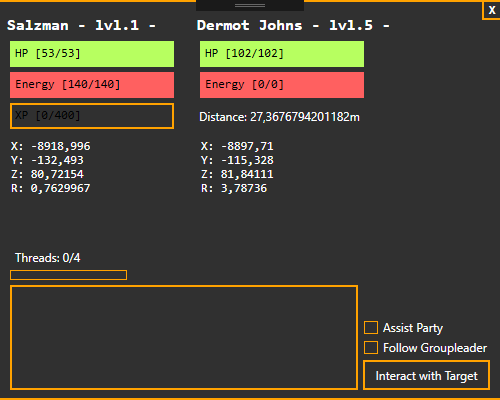
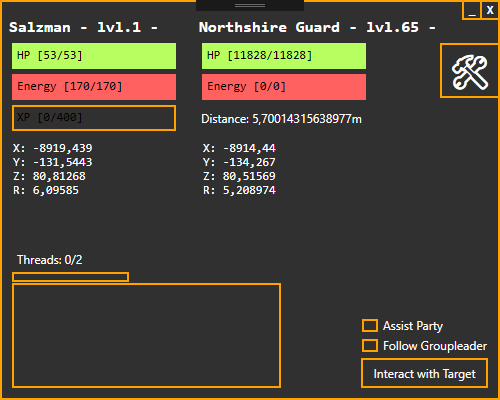
Settings added, small tweaks here and there

Changed region(s): [[0.0, 0.0, 1.0, 1.0], [0.39, 0.03, 0.84, 0.51], [0.9, 0.0, 0.93, 0.03]]

diff --git a/AmeisenBotGUI/mainscreenForm.xaml b/AmeisenBotGUI/mainscreenForm.xaml
@@ -5,9 +5,8 @@
         xmlns:mc="http://schemas.openxmlformats.org/markup-compatibility/2006"
         xmlns:local="clr-namespace:AmeisenBotGUI"
         mc:Ignorable="d"
-        Title="AmeisenBot - " Height="400" Width="500" Loaded="mainscreen_Loaded" Background="#FF303030" WindowStyle="None" ResizeMode="NoResize" MouseDown="mainscreen_MouseDown" Icon="Icon.ico">
+        Title="AmeisenBot - " Height="400" Width="500" Loaded="mainscreen_Loaded" Background="#FF303030" WindowStyle="None" ResizeMode="NoResize" MouseDown="mainscreen_MouseDown" Icon="Icon.ico" BorderBrush="#FFFFA200" BorderThickness="2">
     <Grid>
-        <Rectangle Stroke="#FFFFA200" StrokeThickness="2" Margin="-2,0"/>
         <ProgressBar x:Name="progressBarHPTarget" HorizontalAlignment="Left" Height="26" Margin="200,41,0,0" VerticalAlignment="Top" Width="164" Foreground="#FFB7FF60" FontFamily="Consolas" BorderBrush="#FFFFA200" Background="{x:Null}" BorderThickness="2"/>
         <ProgressBar x:Name="progressBarEnergyTarget" HorizontalAlignment="Left" Height="26" Margin="200,72,0,0" VerticalAlignment="Top" Width="164" Foreground="#FFFF6060" Background="{x:Null}" FontFamily="Consolas" BorderBrush="#FFFFA200" BorderThickness="2"/>
         <ProgressBar x:Name="progressBarHP" HorizontalAlignment="Left" Height="26" Margin="10,41,0,0" VerticalAlignment="Top" Width="164" Foreground="#FFB7FF60" FontFamily="Consolas" Background="{x:Null}" BorderBrush="#FFFFA200" BorderThickness="2"/>
@@ -25,12 +24,14 @@
         <Label x:Name="labelDebugInfo" Content="- DebugInfo -" HorizontalAlignment="Left" Margin="10,235,0,0" VerticalAlignment="Top" FontFamily="Consolas" Foreground="White" Visibility="Hidden"/>
         <Label x:Name="labelDebugInfoTarget" Content="- DebugInfo -" HorizontalAlignment="Left" Margin="200,235,0,0" VerticalAlignment="Top" FontFamily="Consolas" Foreground="White" Visibility="Hidden"/>
         <Button x:Name="buttonMoveToTarget" Content="Interact with Target" Margin="0,0,10,10" Click="buttonMoveToTarget_Click" Height="30" VerticalAlignment="Bottom" HorizontalAlignment="Right" Width="127" BorderThickness="2" BorderBrush="#FFFFA200" Background="{x:Null}" Foreground="White"/>
-        <Button x:Name="buttonExit" Content="X" Margin="0,0,-2,0" VerticalAlignment="Top" FontFamily="Consolas" Click="Button_Click" FontWeight="Bold" Background="{x:Null}" BorderBrush="#FFFFA200" Foreground="White" BorderThickness="2" HorizontalAlignment="Right" Width="20"/>
+        <Button x:Name="buttonExit" Content="X" Margin="0,-2,-2,0" VerticalAlignment="Top" FontFamily="Consolas" Click="Button_Click" FontWeight="Bold" Background="{x:Null}" BorderBrush="#FFFFA200" Foreground="White" BorderThickness="2" HorizontalAlignment="Right" Width="20"/>
         <Label x:Name="labelDistance" Content="Distance:" HorizontalAlignment="Left" Margin="194,103,0,0" VerticalAlignment="Top" Foreground="White" Background="{x:Null}"/>
-        <CheckBox x:Name="checkBoxFollowGroupLeader" Content="Follow Groupleader" Margin="0,0,10,45" Background="{x:Null}" BorderBrush="#FFFFA200" Foreground="White" HorizontalAlignment="Right" Width="127" Height="15" VerticalAlignment="Bottom"/>
-        <CheckBox x:Name="checkBoxAssistParty" Content="Assist Party" Margin="0,0,10,65" BorderBrush="#FFFFA200" Background="{x:Null}" Foreground="White" Height="15" VerticalAlignment="Bottom" HorizontalAlignment="Right" Width="127"/>
-        <ListBox x:Name="listboxCurrentQueue" Margin="10,0,0,10" Background="{x:Null}" BorderBrush="#FFFFA200" Foreground="White" BorderThickness="2" HorizontalAlignment="Left" Width="348" Height="105" VerticalAlignment="Bottom"/>
+        <CheckBox x:Name="checkBoxFollowGroupLeader" Content="Follow Groupleader" Margin="0,0,10,45" Background="{x:Null}" BorderBrush="#FFFFA200" Foreground="White" HorizontalAlignment="Right" Width="127" Height="15" VerticalAlignment="Bottom" BorderThickness="2"/>
+        <CheckBox x:Name="checkBoxAssistParty" Content="Assist Party" Margin="0,0,10,65" BorderBrush="#FFFFA200" Background="{x:Null}" Foreground="White" Height="15" VerticalAlignment="Bottom" HorizontalAlignment="Right" Width="127" BorderThickness="2"/>
+        <ListBox x:Name="listboxCurrentQueue" Margin="10,0,0,10" Background="{x:Null}" BorderBrush="#FFFFA200" Foreground="White" BorderThickness="2" HorizontalAlignment="Left" Width="269" Height="105" VerticalAlignment="Bottom"/>
         <Label x:Name="labelThreadsActive" Content="Threads: 0/0" HorizontalAlignment="Left" Margin="10,244,0,0" VerticalAlignment="Top" Foreground="White" Background="{x:Null}"/>
-        <ProgressBar x:Name="progressBarBusyAIThreads" HorizontalAlignment="Left" Height="10" Margin="10,270,0,0" VerticalAlignment="Top" Width="117" BorderBrush="#FFFFA200" Background="{x:Null}" Foreground="#FFFF3A3A"/>
+        <ProgressBar x:Name="progressBarBusyAIThreads" HorizontalAlignment="Left" Height="10" Margin="10,270,0,0" VerticalAlignment="Top" Width="117" BorderBrush="#FFFFA200" Background="{x:Null}" Foreground="#FFFF3A3A" BorderThickness="2"/>
+        <Button x:Name="buttonSettings" Content="🛠" HorizontalAlignment="Left" Margin="438,41,-2,0" VerticalAlignment="Top" Width="60" Height="55" Click="buttonSettings_Click" BorderBrush="#FFFFA200" Background="{x:Null}" Foreground="White" FontSize="32" BorderThickness="2"/>
+        <Button x:Name="buttonMinimize" Content="_" Margin="0,-2,16,0" VerticalAlignment="Top" FontFamily="Consolas" FontWeight="Bold" Background="{x:Null}" BorderBrush="#FFFFA200" Foreground="White" BorderThickness="2" HorizontalAlignment="Right" Width="20"/>
     </Grid>
 </Window>

diff --git a/AmeisenBotGUI/SettingsWindow.xaml b/AmeisenBotGUI/SettingsWindow.xaml
@@ -1,0 +1,37 @@
+<Window x:Class="AmeisenBotGUI.SettingsWindow"
+        xmlns="http://schemas.microsoft.com/winfx/2006/xaml/presentation"
+        xmlns:x="http://schemas.microsoft.com/winfx/2006/xaml"
+        xmlns:d="http://schemas.microsoft.com/expression/blend/2008"
+        xmlns:mc="http://schemas.openxmlformats.org/markup-compatibility/2006"
+        xmlns:local="clr-namespace:AmeisenBotGUI"
+        mc:Ignorable="d"
+        Title="Settings" Height="445" Width="600" BorderBrush="#FFFFA200" Background="#FF303030" BorderThickness="2" WindowStyle="None" MouseDown="Window_MouseDown" ScrollViewer.VerticalScrollBarVisibility="Disabled" ResizeMode="NoResize" Loaded="Window_Loaded" Closing="Window_Closing">
+    <Grid>
+        <Button x:Name="buttonExit" Content="X" FontFamily="Consolas" Click="ButtonExit_Click" FontWeight="Bold" Background="{x:Null}" BorderBrush="#FFFFA200" Foreground="White" BorderThickness="2" Margin="0,-2,-2,0" Height="20" VerticalAlignment="Top" HorizontalAlignment="Right" Width="20"/>
+        <Button x:Name="buttonMinimize" Content="_" Margin="0,-2,16,0" FontFamily="Consolas" FontWeight="Bold" Background="{x:Null}" BorderBrush="#FFFFA200" Foreground="White" BorderThickness="2" HorizontalAlignment="Right" Width="20" Height="20" VerticalAlignment="Top" Click="buttonMinimize_Click"/>
+        <RadioButton x:Name="radiobuttonRefreshSpeedLowest" Content="Lowest" HorizontalAlignment="Left" Margin="10,97,0,0" VerticalAlignment="Top" Foreground="White" BorderBrush="Red" BorderThickness="4,0,0,0" GroupName="drr"/>
+        <Label x:Name="labelName" Content="Settings" HorizontalAlignment="Left" VerticalAlignment="Top" FontWeight="Bold" FontFamily="Consolas" FontSize="24" Foreground="White" BorderBrush="White" BorderThickness="0,0,0,2"/>
+        <Label Content="Data refresh rate" HorizontalAlignment="Left" Margin="0,60,0,0" VerticalAlignment="Top" Foreground="White" BorderBrush="White" BorderThickness="0,0,0,1" Cursor="None" FontSize="16"/>
+        <RadioButton x:Name="radiobuttonRefreshSpeedLow" Content="Low" HorizontalAlignment="Left" Margin="10,117,0,0" VerticalAlignment="Top" Foreground="White" BorderThickness="4,0,0,0" BorderBrush="#FFFFA000" GroupName="drr"/>
+        <RadioButton x:Name="radiobuttonRefreshSpeedMedium" Content="Medium" HorizontalAlignment="Left" Margin="10,137,0,0" VerticalAlignment="Top" Foreground="White" BorderBrush="Yellow" BorderThickness="4,0,0,0" GroupName="drr"/>
+        <RadioButton x:Name="radiobuttonRefreshSpeedHigh" Content="High" HorizontalAlignment="Left" Margin="10,157,0,0" VerticalAlignment="Top" Foreground="White" BorderBrush="#FFA0FF00" BorderThickness="4,0,0,0" GroupName="drr"/>
+        <RadioButton x:Name="radiobuttonRefreshSpeedHighest" Content="Highest" HorizontalAlignment="Left" Margin="10,177,0,0" VerticalAlignment="Top" Foreground="White" BorderBrush="Magenta" BorderThickness="4,0,0,0" GroupName="drr"/>
+        <Label Content="Intelligence (Threads)" HorizontalAlignment="Left" Margin="0,210,0,0" VerticalAlignment="Top" Foreground="White" BorderBrush="White" BorderThickness="0,0,0,1" Cursor="None" FontSize="16"/>
+        <RadioButton x:Name="radiobuttonIntLowest" Content="Dumb AF" HorizontalAlignment="Left" Margin="10,247,0,0" VerticalAlignment="Top" Foreground="White" BorderBrush="Red" BorderThickness="4,0,0,0" GroupName="int"/>
+        <RadioButton x:Name="radiobuttonIntLow" Content="A bit" HorizontalAlignment="Left" Margin="10,267,0,0" VerticalAlignment="Top" Foreground="White" BorderThickness="4,0,0,0" BorderBrush="#FFFFA000" GroupName="int"/>
+        <RadioButton x:Name="radiobuttonIntMedium" Content="Decent" HorizontalAlignment="Left" Margin="10,287,0,0" VerticalAlignment="Top" Foreground="White" BorderBrush="Yellow" BorderThickness="4,0,0,0" GroupName="int"/>
+        <RadioButton x:Name="radiobuttonIntHigh" Content="High" HorizontalAlignment="Left" Margin="10,307,0,0" VerticalAlignment="Top" Foreground="White" BorderBrush="#FFA0FF00" BorderThickness="4,0,0,0" GroupName="int"/>
+        <RadioButton x:Name="radiobuttonIntHighest" Content="Legend" HorizontalAlignment="Left" Margin="10,327,0,0" VerticalAlignment="Top" Foreground="White" BorderBrush="Magenta" BorderThickness="4,0,0,0" GroupName="int"/>
+        <Label Content="max. 1" HorizontalAlignment="Left" Margin="117,241,0,0" VerticalAlignment="Top" Foreground="White"/>
+        <Label Content="max. 2" HorizontalAlignment="Left" Margin="117,261,0,0" VerticalAlignment="Top" Foreground="White"/>
+        <Label Content="max. 3" HorizontalAlignment="Left" Margin="117,281,0,0" VerticalAlignment="Top" Foreground="White"/>
+        <Label Content="max. 4" HorizontalAlignment="Left" Margin="117,301,0,0" VerticalAlignment="Top" Foreground="White"/>
+        <Label Content="max. 8" HorizontalAlignment="Left" Margin="117,321,0,0" VerticalAlignment="Top" Foreground="White"/>
+        <Label Content="1000ms" HorizontalAlignment="Left" Margin="84,91,0,0" VerticalAlignment="Top" Foreground="White"/>
+        <Label Content="500ms" HorizontalAlignment="Left" Margin="84,111,0,0" VerticalAlignment="Top" Foreground="White"/>
+        <Label Content="250ms" HorizontalAlignment="Left" Margin="84,131,0,0" VerticalAlignment="Top" Foreground="White"/>
+        <Label Content="100ms" HorizontalAlignment="Left" Margin="84,151,0,0" VerticalAlignment="Top" Foreground="White"/>
+        <Label Content="0ms" HorizontalAlignment="Left" Margin="84,171,0,0" VerticalAlignment="Top" Foreground="White"/>
+
+    </Grid>
+</Window>

diff --git a/AmeisenBotGUI/SettingsWindow.xaml.cs b/AmeisenBotGUI/SettingsWindow.xaml.cs
@@ -1,0 +1,133 @@
+using AmeisenCore;
+using System;
+using System.Collections.Generic;
+using System.Linq;
+using System.Text;
+using System.Threading.Tasks;
+using System.Windows;
+using System.Windows.Controls;
+using System.Windows.Data;
+using System.Windows.Documents;
+using System.Windows.Input;
+using System.Windows.Media;
+using System.Windows.Media.Imaging;
+using System.Windows.Shapes;
+
+namespace AmeisenBotGUI
+{
+    /// <summary>
+    /// Interaktionslogik für SettingsWindow.xaml
+    /// </summary>
+    public partial class SettingsWindow : Window
+    {
+        public SettingsWindow()
+        {
+            InitializeComponent();
+        }
+
+        private void Window_MouseDown(object sender, MouseButtonEventArgs e)
+        {
+            DragMove();
+        }
+
+        private void ButtonExit_Click(object sender, RoutedEventArgs e)
+        {
+            Close();
+        }
+
+        private void buttonMinimize_Click(object sender, RoutedEventArgs e)
+        {
+            WindowState = WindowState.Minimized;
+        }
+
+        private void Window_Loaded(object sender, RoutedEventArgs e)
+        {
+            switch (AmeisenSettings.GetInstance().settings.dataRefreshRate)
+            {
+                case 1000:
+                    radiobuttonRefreshSpeedLowest.IsChecked = true;
+                    break;
+
+                case 500:
+                    radiobuttonRefreshSpeedLow.IsChecked = true;
+                    break;
+
+                case 250:
+                    radiobuttonRefreshSpeedMedium.IsChecked = true;
+                    break;
+
+                case 100:
+                    radiobuttonRefreshSpeedHigh.IsChecked = true;
+                    break;
+
+                case 0:
+                    radiobuttonRefreshSpeedHighest.IsChecked = true;
+                    break;
+
+                default:
+                    break;
+            }
+
+            switch (AmeisenSettings.GetInstance().settings.botMaxThreads)
+            {
+                case 1:
+                    radiobuttonIntLowest.IsChecked = true;
+                    break;
+
+                case 2:
+                    radiobuttonIntLow.IsChecked = true;
+                    break;
+
+                case 3:
+                    radiobuttonIntMedium.IsChecked = true;
+                    break;
+
+                case 4:
+                    radiobuttonIntHigh.IsChecked = true;
+                    break;
+
+                case 8:
+                    radiobuttonIntHighest.IsChecked = true;
+                    break;
+
+                default:
+                    break;
+            }
+        }
+
+        private void Window_Closing(object sender, System.ComponentModel.CancelEventArgs e)
+        {
+            if ((bool)radiobuttonRefreshSpeedLowest.IsChecked)
+                AmeisenSettings.GetInstance().settings.dataRefreshRate = 1000;
+            else if ((bool)radiobuttonRefreshSpeedLow.IsChecked)
+                AmeisenSettings.GetInstance().settings.dataRefreshRate = 500;
+            else if ((bool)radiobuttonRefreshSpeedMedium.IsChecked)
+                AmeisenSettings.GetInstance().settings.dataRefreshRate = 250;
+            else if ((bool)radiobuttonRefreshSpeedHigh.IsChecked)
+                AmeisenSettings.GetInstance().settings.dataRefreshRate = 100;
+            else if ((bool)radiobuttonRefreshSpeedHighest.IsChecked)
+                AmeisenSettings.GetInstance().settings.dataRefreshRate = 0;
+            else
+            {
+                //something is wrong...
+            }
+
+            if ((bool)radiobuttonIntLowest.IsChecked)
+                AmeisenSettings.GetInstance().settings.botMaxThreads = 1;
+            else if ((bool)radiobuttonIntLow.IsChecked)
+                AmeisenSettings.GetInstance().settings.botMaxThreads = 2;
+            else if ((bool)radiobuttonIntMedium.IsChecked)
+                AmeisenSettings.GetInstance().settings.botMaxThreads = 3;
+            else if ((bool)radiobuttonIntHigh.IsChecked)
+                AmeisenSettings.GetInstance().settings.botMaxThreads = 4;
+            else if ((bool)radiobuttonIntHighest.IsChecked)
+                AmeisenSettings.GetInstance().settings.botMaxThreads = 8;
+            else
+            {
+                //something is wrong...
+            }
+
+            AmeisenSettings.GetInstance().SaveToFile(AmeisenSettings.GetInstance().loadedconfName);
+        }
+    }
+}

diff --git a/AmeisenCore/AmeisenSettings.cs b/AmeisenCore/AmeisenSettings.cs
@@ -1,0 +1,54 @@
+using System;
+using System.IO;
+
+namespace AmeisenCore
+{
+    public class AmeisenSettings
+    {
+        private static string configPath = AppDomain.CurrentDomain.BaseDirectory + "/config/";
+        public Settings settings;
+        private static AmeisenSettings i;
+        public string loadedconfName; 
+
+        private AmeisenSettings()
+        {
+            
+        }
+
+        public static AmeisenSettings GetInstance()
+        {
+            if (i == null)
+                i = new AmeisenSettings();
+            return i;
+        }
+
+        public void SaveToFile(string filename)
+        {
+            if (!Directory.Exists(configPath))
+                Directory.CreateDirectory(configPath);
+            File.WriteAllText(configPath + filename.ToLower() + ".json", Newtonsoft.Json.JsonConvert.SerializeObject(settings));
+        }
+
+        public void LoadFromFile(string filename)
+        {
+            if (!Directory.Exists(configPath))
+                Directory.CreateDirectory(configPath);
+            if (File.Exists(configPath + filename.ToLower() + ".json"))
+                settings = Newtonsoft.Json.JsonConvert.DeserializeObject<Settings>(File.ReadAllText(configPath + filename.ToLower() + ".json"));
+            else
+            {
+                settings = new Settings();
+                settings.botMaxThreads = 2;
+                settings.dataRefreshRate = 250;
+                SaveToFile(filename);
+            }
+
+            loadedconfName = filename;
+        }
+    }
+
+    public class Settings{
+        public int dataRefreshRate;
+        public int botMaxThreads;
+    }
+}

diff --git a/AmeisenAI/AmeisenAIManager.cs b/AmeisenAI/AmeisenAIManager.cs
@@ -53,6 +53,8 @@ namespace AmeisenAI
         {
             actionQueue = new ConcurrentQueue<AmeisenAction>();
             aiWorkers = new List<Thread>();
+
+            StartAI(AmeisenSettings.GetInstance().settings.botMaxThreads);
         }
 
         public static AmeisenAIManager GetInstance()
@@ -67,7 +69,7 @@ namespace AmeisenAI
         /// the queue of actions that the bot has to do.
         /// </summary>
         /// <param name="threadID">id to identify the thread</param>
-        private void WorkActions(UInt64 threadID)
+        private void WorkActions(int threadID)
         {
             while (aiActive)
             {
@@ -123,13 +125,13 @@ namespace AmeisenAI
         /// Call this to start our bots "brain" and get things up and running inside the bot.
         /// </summary>
         /// <param name="threadCount">how many "Brain-Thread's" should our bot get</param>
-        public void StartAI(UInt64 threadCount)
+        public void StartAI(int threadCount)
         {
             if (!aiActive)
             {
                 busyThreads = new bool[threadCount];
 
-                for (UInt64 i = 0; i < threadCount; i++)
+                for (int i = 0; i < threadCount; i++)
                     aiWorkers.Add(new Thread(() => WorkActions(i)));
 
                 foreach (Thread t in aiWorkers)

diff --git a/AmeisenBotGUI/mainscreenForm.xaml.cs b/AmeisenBotGUI/mainscreenForm.xaml.cs
@@ -40,10 +40,8 @@ namespace AmeisenBotGUI
 
             uiUpdateTimer = new DispatcherTimer();
             uiUpdateTimer.Tick += new EventHandler(uiUpdateTimer_Tick);
-            uiUpdateTimer.Interval = new TimeSpan(0, 0, 0, 0, 100);
+            uiUpdateTimer.Interval = new TimeSpan(0, 0, 0, 0, AmeisenSettings.GetInstance().settings.dataRefreshRate);
             uiUpdateTimer.Start();
-
-            AmeisenAIManager.GetInstance().StartAI(4);
         }
 
         private void uiUpdateTimer_Tick(object sender, EventArgs e)
@@ -156,6 +154,16 @@ namespace AmeisenBotGUI
         private void mainscreen_MouseDown(object sender, MouseButtonEventArgs e)
         {
             DragMove();
+        }
+
+        private void buttonSettings_Click(object sender, RoutedEventArgs e)
+        {
+            new SettingsWindow().ShowDialog();
+        }
+
+        private void buttonMinimize_Click(object sender, RoutedEventArgs e)
+        {
+            WindowState = WindowState.Minimized;
         }
     }
 }

diff --git a/AmeisenBotGUI/MainWindow.xaml.cs b/AmeisenBotGUI/MainWindow.xaml.cs
@@ -47,6 +47,8 @@ namespace AmeisenBotGUI
         {
             AmeisenManager.GetInstance().AttachManager(((WoWExe)comboBoxWoWs.SelectedItem).process);
 
+            AmeisenSettings.GetInstance().LoadFromFile(((WoWExe)comboBoxWoWs.SelectedItem).characterName);
+
             new mainscreenForm((WoWExe)comboBoxWoWs.SelectedItem).Show();
             Close();
         }
